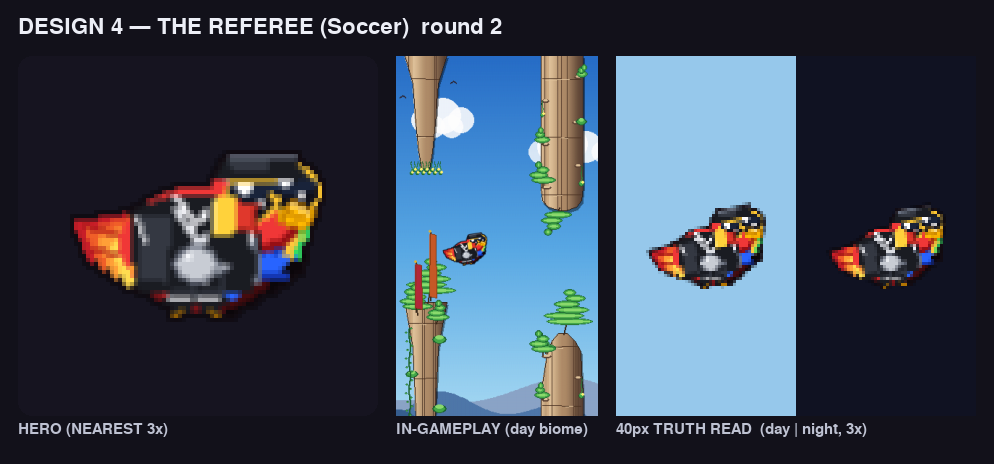
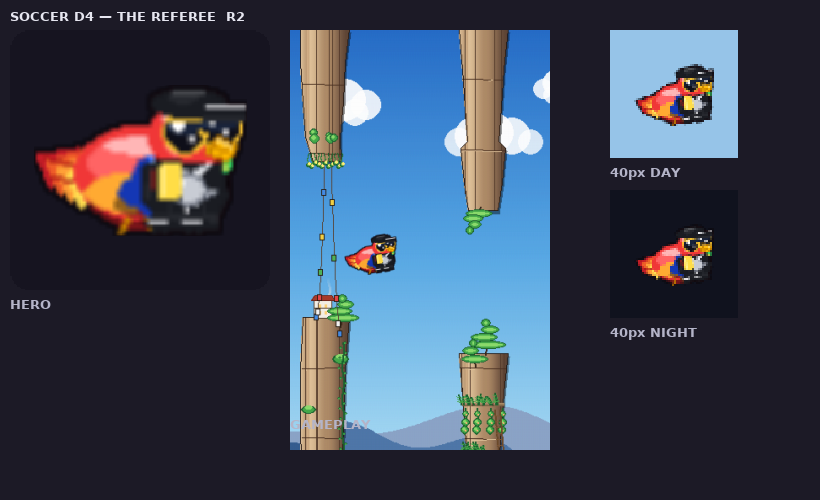
Soccer D4 Referee R2: true black kit, separated props, peaked cap
Claude-Session: https://claude.ai/code/session_01HafGQfRZVDiGkQqpJPr5Cm

diff --git a/tools/soccer_candidates/design_4.py b/tools/soccer_candidates/design_4.py
@@ -31,12 +31,12 @@ from game.store_skins import HX, HY, CROWN_Y, _poly
 # cloth still reads round after downscale: a near-black core, a cool dark grey
 # lit plane, and a rim light at the contour. The piping/cards/whistle then do
 # the contrast work the black cloth can't.
-_REF_BLACK   = (26, 28, 34)         # #1A1C22 referee black (core)
-_REF_GREY    = (52, 56, 66)         # cool dark grey lit plane (mid value)
-_REF_RIM     = (108, 116, 132)      # cool rim light at the cloth edge
+_REF_BLACK   = (26, 28, 34)         # #1A1C22 referee black (the main jersey fill, sub-40)
+_REF_GREY    = (38, 40, 46)         # near-black lit plane (kept a THIN sliver, never blue)
+_REF_RIM     = (90, 92, 96)         # neutral (not cool) rim light, 1px on the contour only
 _REF_WHITE   = (244, 244, 248)      # #F4F4F8 collar / sock piping
-_REF_YELLOW  = (255, 210, 59)       # #FFD23B yellow card
-_REF_YEL_H   = (255, 232, 138)      # yellow-card glint
+_REF_YELLOW  = (255, 221, 70)       # #FFDD46 yellow card — punched up so it finds the eye on night
+_REF_YEL_H   = (255, 240, 150)      # yellow-card glint
 _REF_RED     = (224, 56, 44)        # #E0382C red card sliver
 _REF_RED_D   = (150, 30, 24)        # red-card edge
 _REF_STEEL   = (200, 204, 212)      # #C8CCD4 whistle steel
@@ -53,15 +53,14 @@ def _paint(surf, _a):
     jersey = [(HX - 13, HY + 8), (HX - 14, HY + 18), (HX - 10, HY + 23),
               (HX + 8, HY + 23), (HX + 11, HY + 18), (HX + 9, HY + 8)]
     _poly(surf, _REF_BLACK, jersey)
-    # Cool grey lit plane down the near (left) chest so a light source reads on
-    # the black cloth instead of a flat silhouette.
-    _poly(surf, _REF_GREY, [(HX - 12, HY + 9), (HX - 4, HY + 9),
-                            (HX - 6, HY + 22), (HX - 11, HY + 21)])
-    # Rim light along the far (right) side edge — the cool highlight that pulls
-    # the black contour off the scarlet body at small sizes. 2px so it survives
-    # the NIGHT swatch.
-    pygame.draw.line(surf, _REF_RIM, (HX + 9, HY + 8), (HX + 11, HY + 18), 2)
-    pygame.draw.line(surf, _REF_RIM, (HX + 11, HY + 18), (HX + 8, HY + 23), 2)
+    # Near-black lit plane kept as a THIN 2px sliver on the near (left) edge only —
+    # enough to suggest a light source without flooding the torso with a value
+    # that reads blue against the scarlet body.
+    pygame.draw.line(surf, _REF_GREY, (HX - 12, HY + 9), (HX - 13, HY + 18), 2)
+    # Neutral rim light, 1px on the far (right) contour only — pulls the black
+    # edge off the body without going cool/blue.
+    pygame.draw.line(surf, _REF_RIM, (HX + 9, HY + 8), (HX + 11, HY + 18), 1)
+    pygame.draw.line(surf, _REF_RIM, (HX + 11, HY + 18), (HX + 8, HY + 23), 1)
     # Cloth edge so the jersey contour stays crisp.
     pygame.draw.polygon(surf, _REF_BLACK, jersey, 1)
 
@@ -97,23 +96,32 @@ def _paint(surf, _a):
     # shell becomes a near-black officials cap with one rim-light edge + a short
     # forward brim. NO horizontal band crosses the brow — the shell sits ON TOP.
     cy = CROWN_Y - 3
-    pygame.draw.ellipse(surf, _REF_BLACK, (HX - 11, cy - 4, 22, 12))
-    pygame.draw.ellipse(surf, _REF_BLACK, (HX - 11, cy - 4, 22, 12), 1)
-    pygame.draw.ellipse(surf, _REF_GREY, (HX - 6, cy - 3, 9, 5))   # top sheen
-    pygame.draw.line(surf, _REF_RIM, (HX - 5, cy - 3), (HX + 4, cy - 3), 1)
-    # Short forward brim projecting over the beak — the cap tell, kept SHORT so
-    # it doesn't crowd the beak.
-    brim = [(HX + 3, cy + 5), (HX + 15, cy + 4), (HX + 16, cy + 7),
+    # FLATTENED crown ellipse (height 9 vs the old 12) so the shell reads as a
+    # low peaked-cap dome, not a tall round bowler.
+    pygame.draw.ellipse(surf, _REF_BLACK, (HX - 11, cy - 1, 22, 9))
+    pygame.draw.ellipse(surf, _REF_BLACK, (HX - 11, cy - 1, 22, 9), 1)
+    pygame.draw.ellipse(surf, _REF_GREY, (HX - 6, cy, 9, 4))   # top sheen
+    pygame.draw.line(surf, _REF_RIM, (HX - 5, cy, ), (HX + 4, cy), 1)
+    # Longer forward brim (2px more reach) projecting over the beak, with a hard
+    # bright rim-light line on the leading edge so the silhouette reads as an
+    # official's peaked cap rather than a round hat.
+    brim = [(HX + 3, cy + 5), (HX + 17, cy + 4), (HX + 18, cy + 7),
             (HX + 4, cy + 8)]
     _poly(surf, _REF_BLACK, brim)
-    _poly(surf, _REF_GREY, [(HX + 4, cy + 7), (HX + 16, cy + 7),
-                            (HX + 15, cy + 8), (HX + 4, cy + 8)])
+    _poly(surf, _REF_GREY, [(HX + 4, cy + 7), (HX + 18, cy + 7),
+                            (HX + 17, cy + 8), (HX + 4, cy + 8)])
+    # Hard bright rim-light along the brim's leading edge — the peaked-cap tell.
+    pygame.draw.line(surf, _REF_WHITE, (HX + 5, cy + 4), (HX + 17, cy + 4), 1)
 
     # --- HERO PROPS, drawn LAST so they sit IN FRONT of the cloth ----------------
+    # Cards and whistle are split to OPPOSITE chest quadrants so two separated
+    # bright marks each read as their own thing instead of piling into noise.
+    # Whistle dead-CENTRE on the lanyard V; cards on the LEFT breast below.
+
     # Whistle on a lanyard: two pale-cord lines from the neck V-ing down to a
-    # silver disc resting on the chest. The neck base sits at the jersey top.
+    # silver disc resting at chest centre. The neck base sits at the jersey top.
     nlx, nly = HX, HY + 8                            # neck base of the lanyard
-    wx, wy = HX - 2, HY + 14                         # whistle resting point on chest
+    wx, wy = HX, HY + 14                             # whistle at chest centre
     pygame.draw.line(surf, _REF_CORD, (nlx - 5, nly), (wx, wy - 3), 2)
     pygame.draw.line(surf, _REF_CORD, (nlx + 5, nly), (wx, wy - 3), 2)
 
@@ -129,26 +137,26 @@ def _paint(surf, _a):
     pygame.draw.rect(surf, _REF_STEEL_H, (wx - 3, wy - 1, 2, 2))
     pygame.draw.ellipse(surf, _REF_STEEL_D, (wx - 6, wy - 3, 12, 10), 1)
 
-    # Yellow + red CARDS from the breast pocket — a fat near-upright bright
-    # yellow rectangle with the red card a sliver behind, both bright so they
-    # punch through the black at 40px and instantly say "referee".
-    cx, cyy = HX + 3, HY + 11
-    # Red card sliver behind.
-    _poly(surf, _REF_RED_D, [(cx + 3, cyy - 2), (cx + 8, cyy - 1),
-                             (cx + 7, cyy + 5), (cx + 2, cyy + 4)])
-    _poly(surf, _REF_RED, [(cx + 3, cyy - 2), (cx + 7, cyy - 1),
-                           (cx + 6, cyy + 4), (cx + 2, cyy + 3)])
-    # Yellow card in front — fat near-upright rounded rect (HY+9..14). Dark edge
-    # first so the yellow contour separates from both red and black.
-    yl, yr, yt, yb = cx - 4, cx + 2, cyy - 2, cyy + 5
-    _poly(surf, _REF_BLACK, [(yl, yt), (yr, yt - 1), (yr + 1, yb - 1),
-                             (yl, yb)])                      # dark edge halo
-    _poly(surf, _REF_YELLOW, [(yl + 1, yt), (yr, yt), (yr, yb - 1),
-                              (yl + 1, yb - 1)])             # fat yellow face
+    # Yellow + red CARDS on the LEFT breast (x=HX-7), well clear of the centred
+    # whistle — a fat near-upright bright yellow rectangle with the red card a
+    # sliver behind, both bright so they punch through the black at 40px and
+    # instantly say "referee".
+    cx, cyy = HX - 7, HY + 11
+    # Red card sliver behind, peeking to the near side.
+    _poly(surf, _REF_RED_D, [(cx - 4, cyy - 1), (cx + 1, cyy - 2),
+                             (cx + 2, cyy + 4), (cx - 3, cyy + 5)])
+    _poly(surf, _REF_RED, [(cx - 3, cyy - 1), (cx + 1, cyy - 2),
+                           (cx + 2, cyy + 3), (cx - 2, cyy + 4)])
+    # Yellow card in front — the TALLEST non-cap element (yt=HY+8 .. yb=HY+18) so
+    # the eye lands on it first. A 1px BLACK halo rings ALL FOUR sides so the
+    # bright yellow separates from red, black cloth and scarlet body on night.
+    yl, yr, yt, yb = cx - 2, cx + 4, cyy - 3, cyy + 7
+    pygame.draw.rect(surf, _REF_BLACK, (yl - 1, yt - 1, (yr - yl) + 2, (yb - yt) + 2))
+    _poly(surf, _REF_YELLOW, [(yl, yt), (yr, yt), (yr, yb), (yl, yb)])  # fat yellow face
     # Glint down the lit (near) edge + knocked corners so the card reads round.
-    pygame.draw.line(surf, _REF_YEL_H, (yl + 1, yt + 1), (yl + 1, yb - 2), 1)
-    surf.set_at((yl + 1, yt), _REF_BLACK)
-    surf.set_at((yr, yb - 1), _REF_BLACK)
+    pygame.draw.line(surf, _REF_YEL_H, (yl + 1, yt + 1), (yl + 1, yb - 1), 1)
+    surf.set_at((yl, yt), _REF_BLACK)
+    surf.set_at((yr, yb), _REF_BLACK)
 
 
 build = store_skins._make_skin(_paint)
